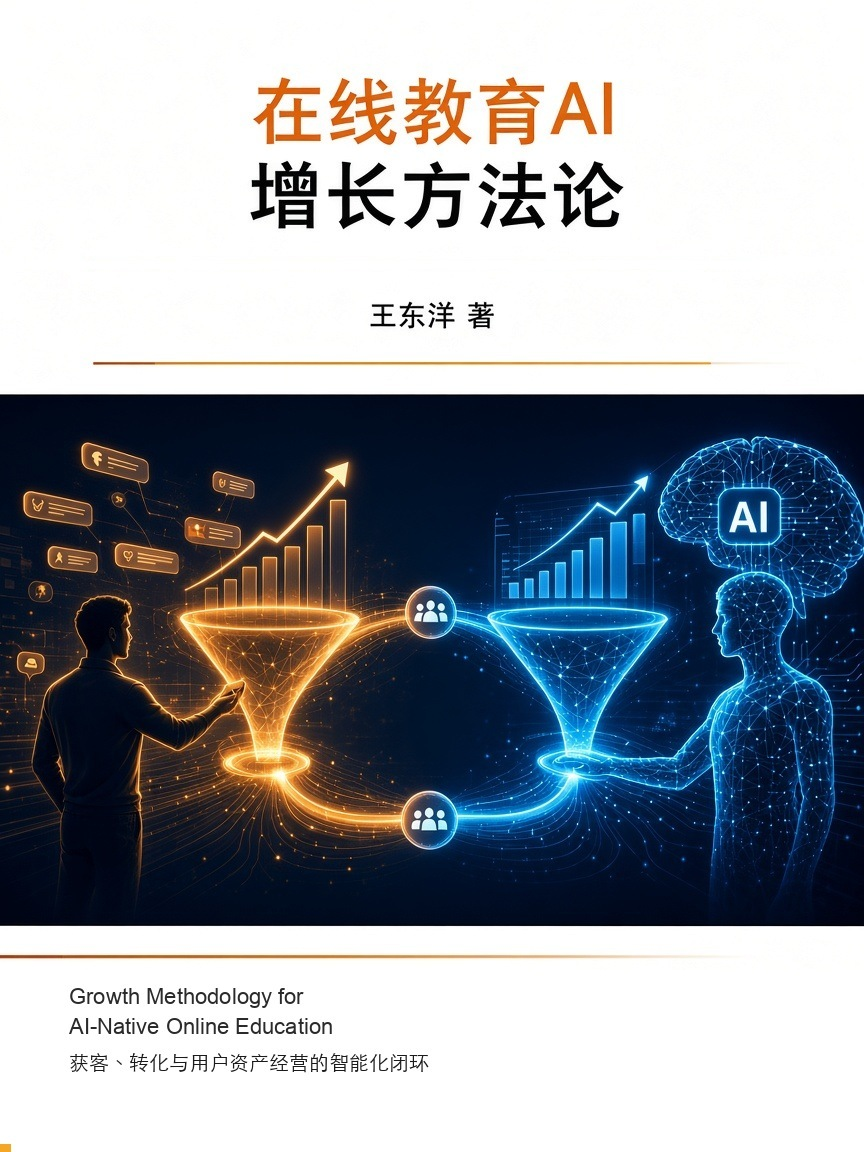
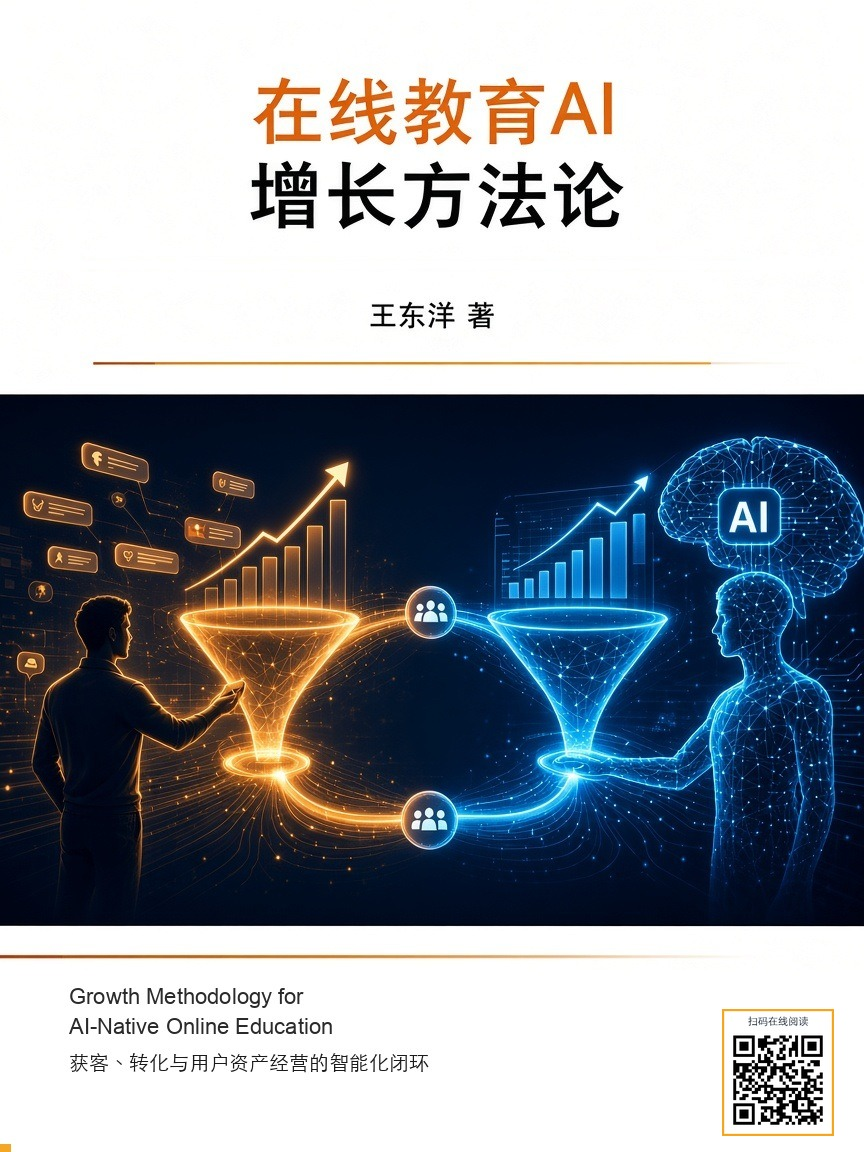
Add site QR code to the book cover.
Link https://cltf.github.io/AIInGrowth/ with a scannable badge on the cover, keep the original artwork backup, and document the online reading entry.

Changed region(s): [[0.8125, 0.875, 0.9688, 1.0]]

diff --git a/cover.html b/cover.html
@@ -49,20 +49,31 @@
       font-size: 0.92rem;
       line-height: 1.5;
     }
+    .site-link {
+      display: inline-block;
+      margin-top: 0.35rem;
+      color: #1d6b48;
+      text-decoration: none;
+      font-size: 0.88rem;
+    }
+    .site-link:hover { text-decoration: underline; }
   </style>
 </head>
 <body>
   <div class="stage">
     <div class="cover">
-      <img src="images/cover.jpg" alt="在线教育AI增长方法论 封面" />
+      <img src="images/cover.jpg" alt="在线教育AI增长方法论 封面（含在线阅读二维码）" />
     </div>
     <div class="meta">
       在线教育AI增长方法论<br />
       王东洋 著<br />
-      希望学增长产研负责人
+      希望学增长产研负责人<br />
+      <a class="site-link" href="https://cltf.github.io/AIInGrowth/" target="_blank" rel="noopener noreferrer">cltf.github.io/AIInGrowth</a>
     </div>
     <div class="actions">
-      <a href="index.html">进入目录 →</a>
+      <a href="index.html">进入目录</a>
+      <a href="ch01.html">开始第 1 章</a>
+      <a href="https://cltf.github.io/AIInGrowth/" target="_blank" rel="noopener noreferrer">在线阅读</a>
     </div>
   </div>
 </body>

diff --git a/README.md b/README.md
@@ -46,11 +46,14 @@
 
 ---
 
-## 本地阅读
+## 在线阅读
+
+站点：[https://cltf.github.io/AIInGrowth/](https://cltf.github.io/AIInGrowth/)  
+封面右下角二维码可扫码直达。
 
 | 入口 | 说明 |
 |------|------|
-| [`cover.html`](cover.html) | 封面页 |
+| [`cover.html`](cover.html) | 封面页（含在线阅读二维码） |
 | [`index.html`](index.html) | 总目录 |
 | [`ch01.html`](ch01.html) ~ [`ch10.html`](ch10.html) | 各章正文 |
 
@@ -97,7 +100,10 @@ python3 _convert_docx.py
 |-------------|------|
 | `在线教育AI增长方法论.docx` | Word 源稿（正文已转 HTML） |
 | `AI-增长周沟通.docx` | 周沟通素材（本地保留，约 80MB，未入库） |
-| `images/cover.jpg` / `cover.png` | 封面图 |
+| `images/cover.jpg` / `cover.png` | 封面图（右下角含在线阅读二维码） |
+| `images/cover-original.png` | 未贴码的原始封面备份 |
+| `images/qr-site.png` | 站点二维码原图 |
+| `images/qr-badge.png` | 带「扫码在线阅读」边框的贴图 |
 | `cover.html` | 封面页 |
 | `index.html` | 总目录 |
 | `ch01.html` ~ `ch10.html` | 各章 HTML |
